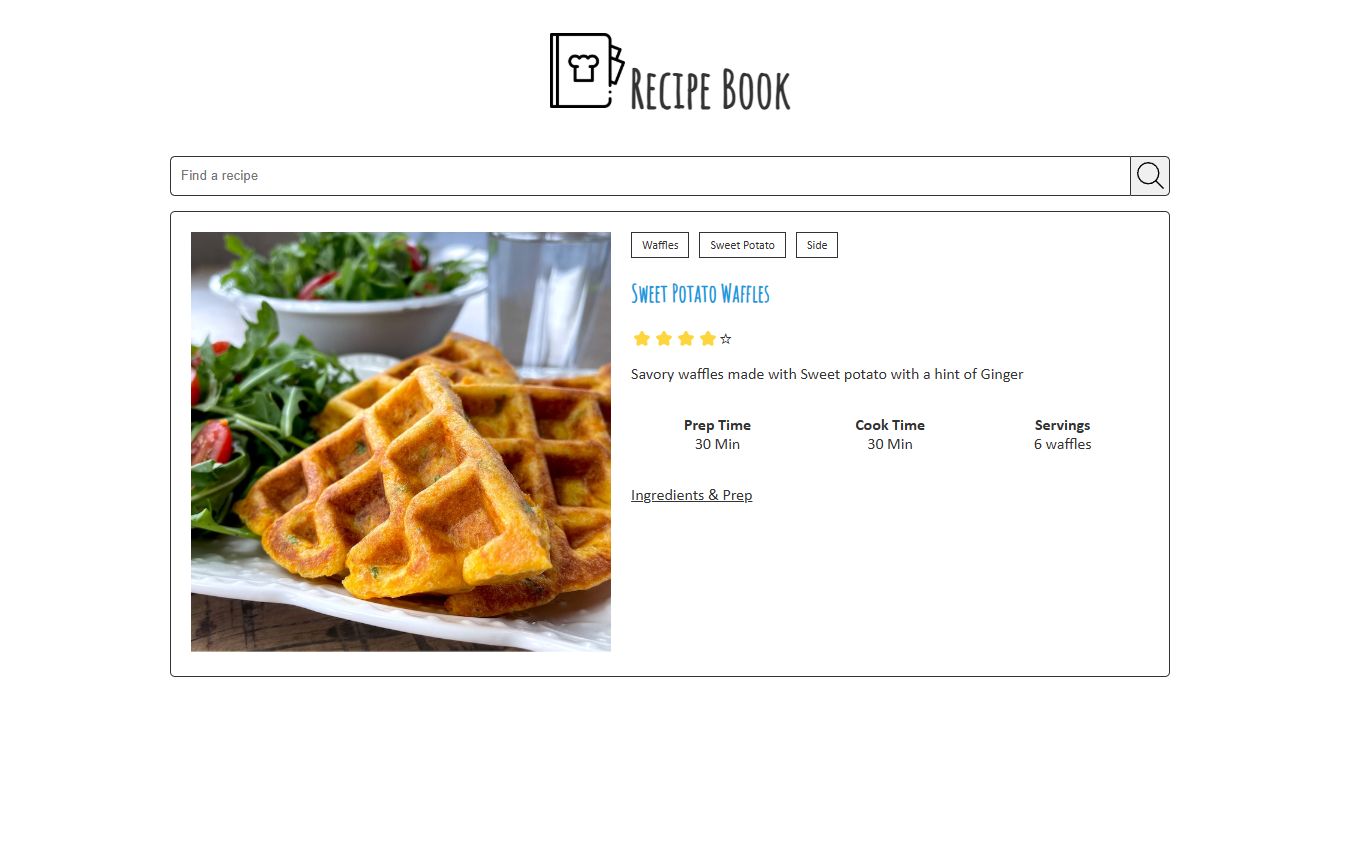
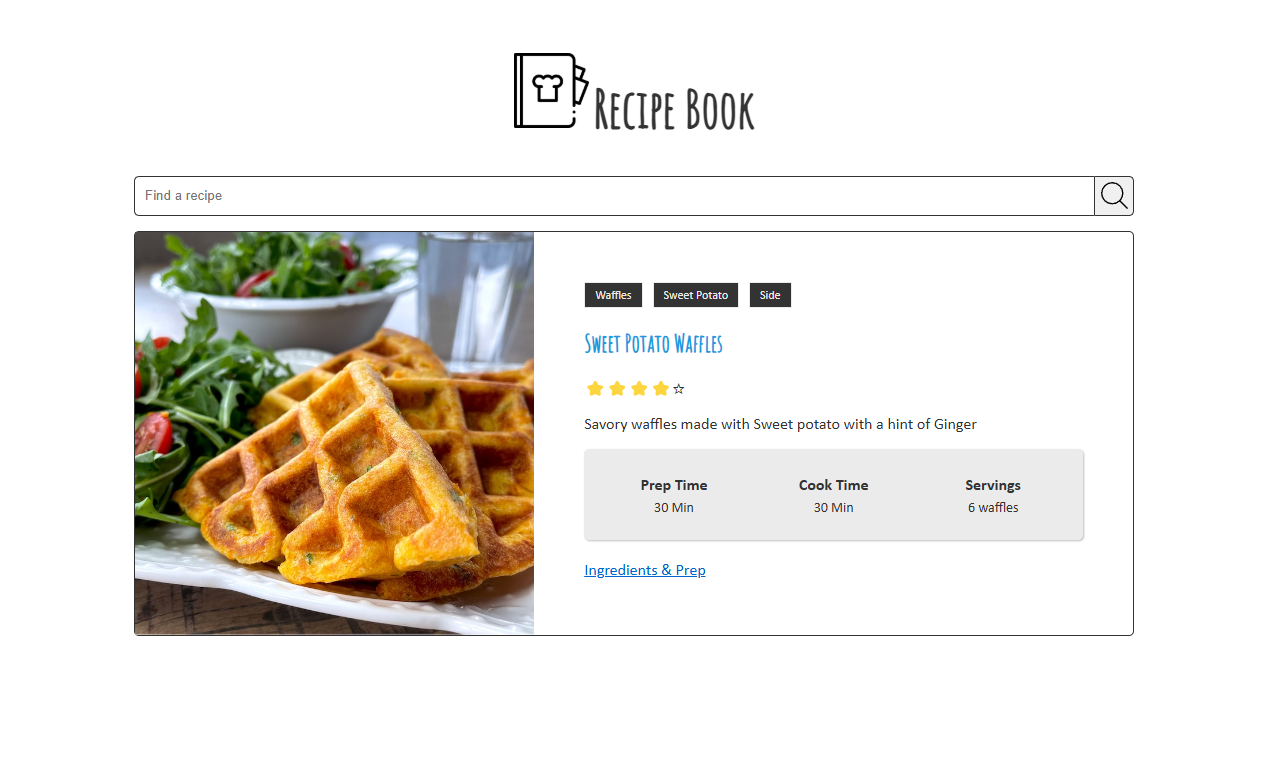
update recipe styling

diff --git a/unit_5/recipes/recipes.css b/unit_5/recipes/recipes.css
@@ -7,7 +7,10 @@
     --color-gray-light: #ebebeb;
     --color-sea-foam-green: #59c3c3;
     /* defaults */
-    --color-border: var(--color-gray-dark);
+    --color-background-dark: var(--color-gray-dark);
+    --color-background-light: var(--color-gray-light);
+    --color-border-dark: var(--color-gray-dark);
+    --color-border-light: var(--color-gray-light);
     --color-primary: var(--color-blue);
     --color-secondary: var(--color-sea-foam-green);
     --color-text-dark: var(--color-gray-dark);
@@ -24,7 +27,7 @@
 
 body {
     margin: 0;
-    padding: 0;
+    padding: 25px;
 }
 
 h1 {
@@ -71,7 +74,7 @@ form[name="recipes"] input[name="recipe"] {
     width: 100%;
     height: 40px;
     padding-left: 10px;
-    border: 1px solid var(--color-border);
+    border: 1px solid var(--color-border-dark);
     border-top-left-radius: 5px;
     border-bottom-left-radius: 5px;
 }
@@ -84,7 +87,7 @@ form[name="recipes"] button[type="submit"] {
     background-size: 70%;
     background-repeat: no-repeat;
     background-position: center;
-    border: 1px solid var(--color-border);
+    border: 1px solid var(--color-border-dark);
     border-left: none;
     border-top-right-radius: 5px;
     border-bottom-right-radius: 5px;
@@ -94,20 +97,16 @@ form[name="recipes"] button[type="submit"] {
     display: flex;
     flex-direction: column;
     margin: 20px 0 0 0;
-    padding: 10px;
-    border: 1px solid var(--color-border);
+    border: 1px solid var(--color-border-dark);
     border-radius: 5px;
 }
 
 .recipe-meta {
-    display: flex;
-    flex-direction: row;
     text-align: center;
-}
-
-.recipe-meta div {
-    flex: 33%;
-    align-content: center;
+    background-color: var(--color-background-light);
+    border-radius: 5px;
+    padding: 10px;
+    box-shadow: 1px 1px 2px 0px rgba(0, 0, 0, 0.25);
 }
 
 .recipe-meta p:first-of-type {
@@ -118,8 +117,21 @@ form[name="recipes"] button[type="submit"] {
     margin-top: 0;
 }
 
+.recipe-meta-label {
+    font-weight: bold;
+}
+
+.recipe-meta-detail {
+    font-size: 0.875rem;
+    padding-top: 5px;
+}
+
 .recipe-description > h2 {
     color: var(--color-text-secondary);
+}
+
+#recipe > .recipe-description {
+    padding: 20px;
 }
 
 .tags {
@@ -129,10 +141,9 @@ form[name="recipes"] button[type="submit"] {
 }
 
 .tags li {
-    /* background-color: #f0f0f0; */
-    /* border-radius: 5px; */
-    border: 1px solid var(--color-border);
-    color: #333333;
+    border: 1px solid var(--color-border-light);
+    color: var(--color-text-light);
+    background-color: var(--color-background-dark);
     cursor: pointer;
     display: inline-block;
     font-size: 12px;
@@ -146,25 +157,67 @@ form[name="recipes"] button[type="submit"] {
 }
 
 .tags li:hover {
-    background-color: #e0e0e0;
+    color: var(--color-text-dark);
+    background-color: var(--color-background-light);
 }
 
 .hide {
     display: none;
 }
 
-@media (min-width: 568px) {
+.button-as-link {
+    background: none;
+    border: none;
+    margin-top: 20px;
+    color: #0066cc;
+    cursor: pointer;
+    font-family: inherit;
+    font-size: inherit;
+    padding: 0;
+    text-decoration: underline;
+}
+
+.button-as-link:hover {
+    color: var(--color-blue);
+    text-decoration: none;
+}
+
+@media (min-width: 380px) {
+    .recipe-meta {
+        display: flex;
+        flex-direction: row;
+        align-items: flex-start;
+        justify-content: space-evenly;
+    }
+    
+    .recipe-meta div {
+        flex: 33%;
+        align-content: center;
+    }
+}
+
+@media (min-width: 700px) {
+    .recipe-image {
+        position: relative;
+        overflow: hidden;
+    }
+
+    .recipe-image img {
+        min-width: 100%;
+        min-height: 100%;
+        object-fit: cover;
+    }
+
     #recipe {
         flex-direction: row;
     }
 
     #recipe > .recipe-image {
-        flex: 45%;
-        padding: 10px;
+        flex: 40%;
     }
 
     #recipe > .recipe-description {
-        flex: 55%;
-        padding: 10px;
+        flex: 60%;
+        padding: 50px;
     }
 }
